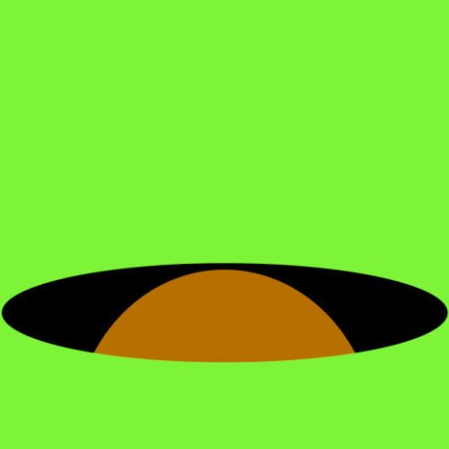
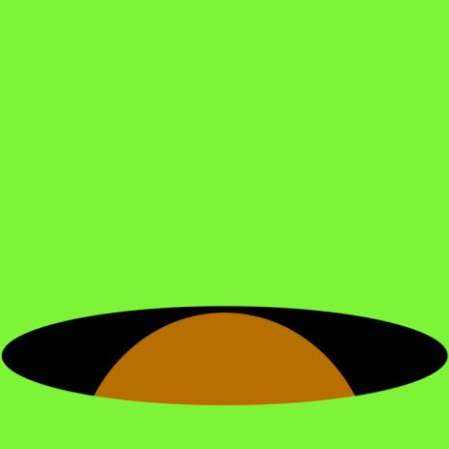
hammer works

Changed region(s): [[0.0, 0.5612, 1.0, 0.9042]]

diff --git a/src/components/Board/Board.tsx b/src/components/Board/Board.tsx
@@ -1,8 +1,22 @@
 import { Card } from '@mui/material';
 import { backgroundGreen } from '../../theme/theme';
+import { Mole } from '../../types/types';
+import hammer from '../../assets/hammer.png';
+import hit from '../../assets/hammer-hit.png';
+import { useState } from 'react';
 
 const Board = () => {
-    const moles = Array.from( { length: 16 }, () => 'src/assets/mole-pop.png' );
+    const moles = Array.from<{ length: number }, Mole>( { length: 16 }, ( _, i ) => ( {
+        image: 'src/assets/mole-pop.png'
+        , isPopped: i === 5 ?? false
+    } ) );
+
+    const [ cursor, setCursor ] = useState<'' | 'hit'>( '' );
+
+    const hammerAnimate = () => {
+        setCursor( 'hit' );
+        setTimeout( () => setCursor( '' ), 50 );
+    };
 
     return (
         <Card
@@ -14,18 +28,21 @@ const Board = () => {
                 , aspectRatio: 1
                 , backgroundColor: backgroundGreen
                 , padding: '.5rem'
+                // , cursor: `url('${ cursor === 'hit' ? hit : hammer }') 64 32, auto`
+                , cursor: `url('${ cursor === 'hit' ? hit : hammer }') 64 32, auto`
             } }
         >
             {
-                moles.map( ( img, i ) => (
+                moles.map( ( mole, i ) => (
                     <img
-                        src={ img }
+                        src={ mole.isPopped ? mole.image.replace( 'pop', 'hole' ) : mole.image }
                         key={ i }
                         height={ 92 }
                         width={ 92 }
                         style={ {
                             margin: '.25rem'
                         } }
+                        onClick={ () => hammerAnimate() }
                     />
                 ) )
             }

diff --git a/src/types/types.ts b/src/types/types.ts
@@ -1,0 +1,4 @@
+export type Mole = {
+    image: `${ string }mole-${ 'hole' | 'pop' }.png`;
+    isPopped: boolean;
+};
